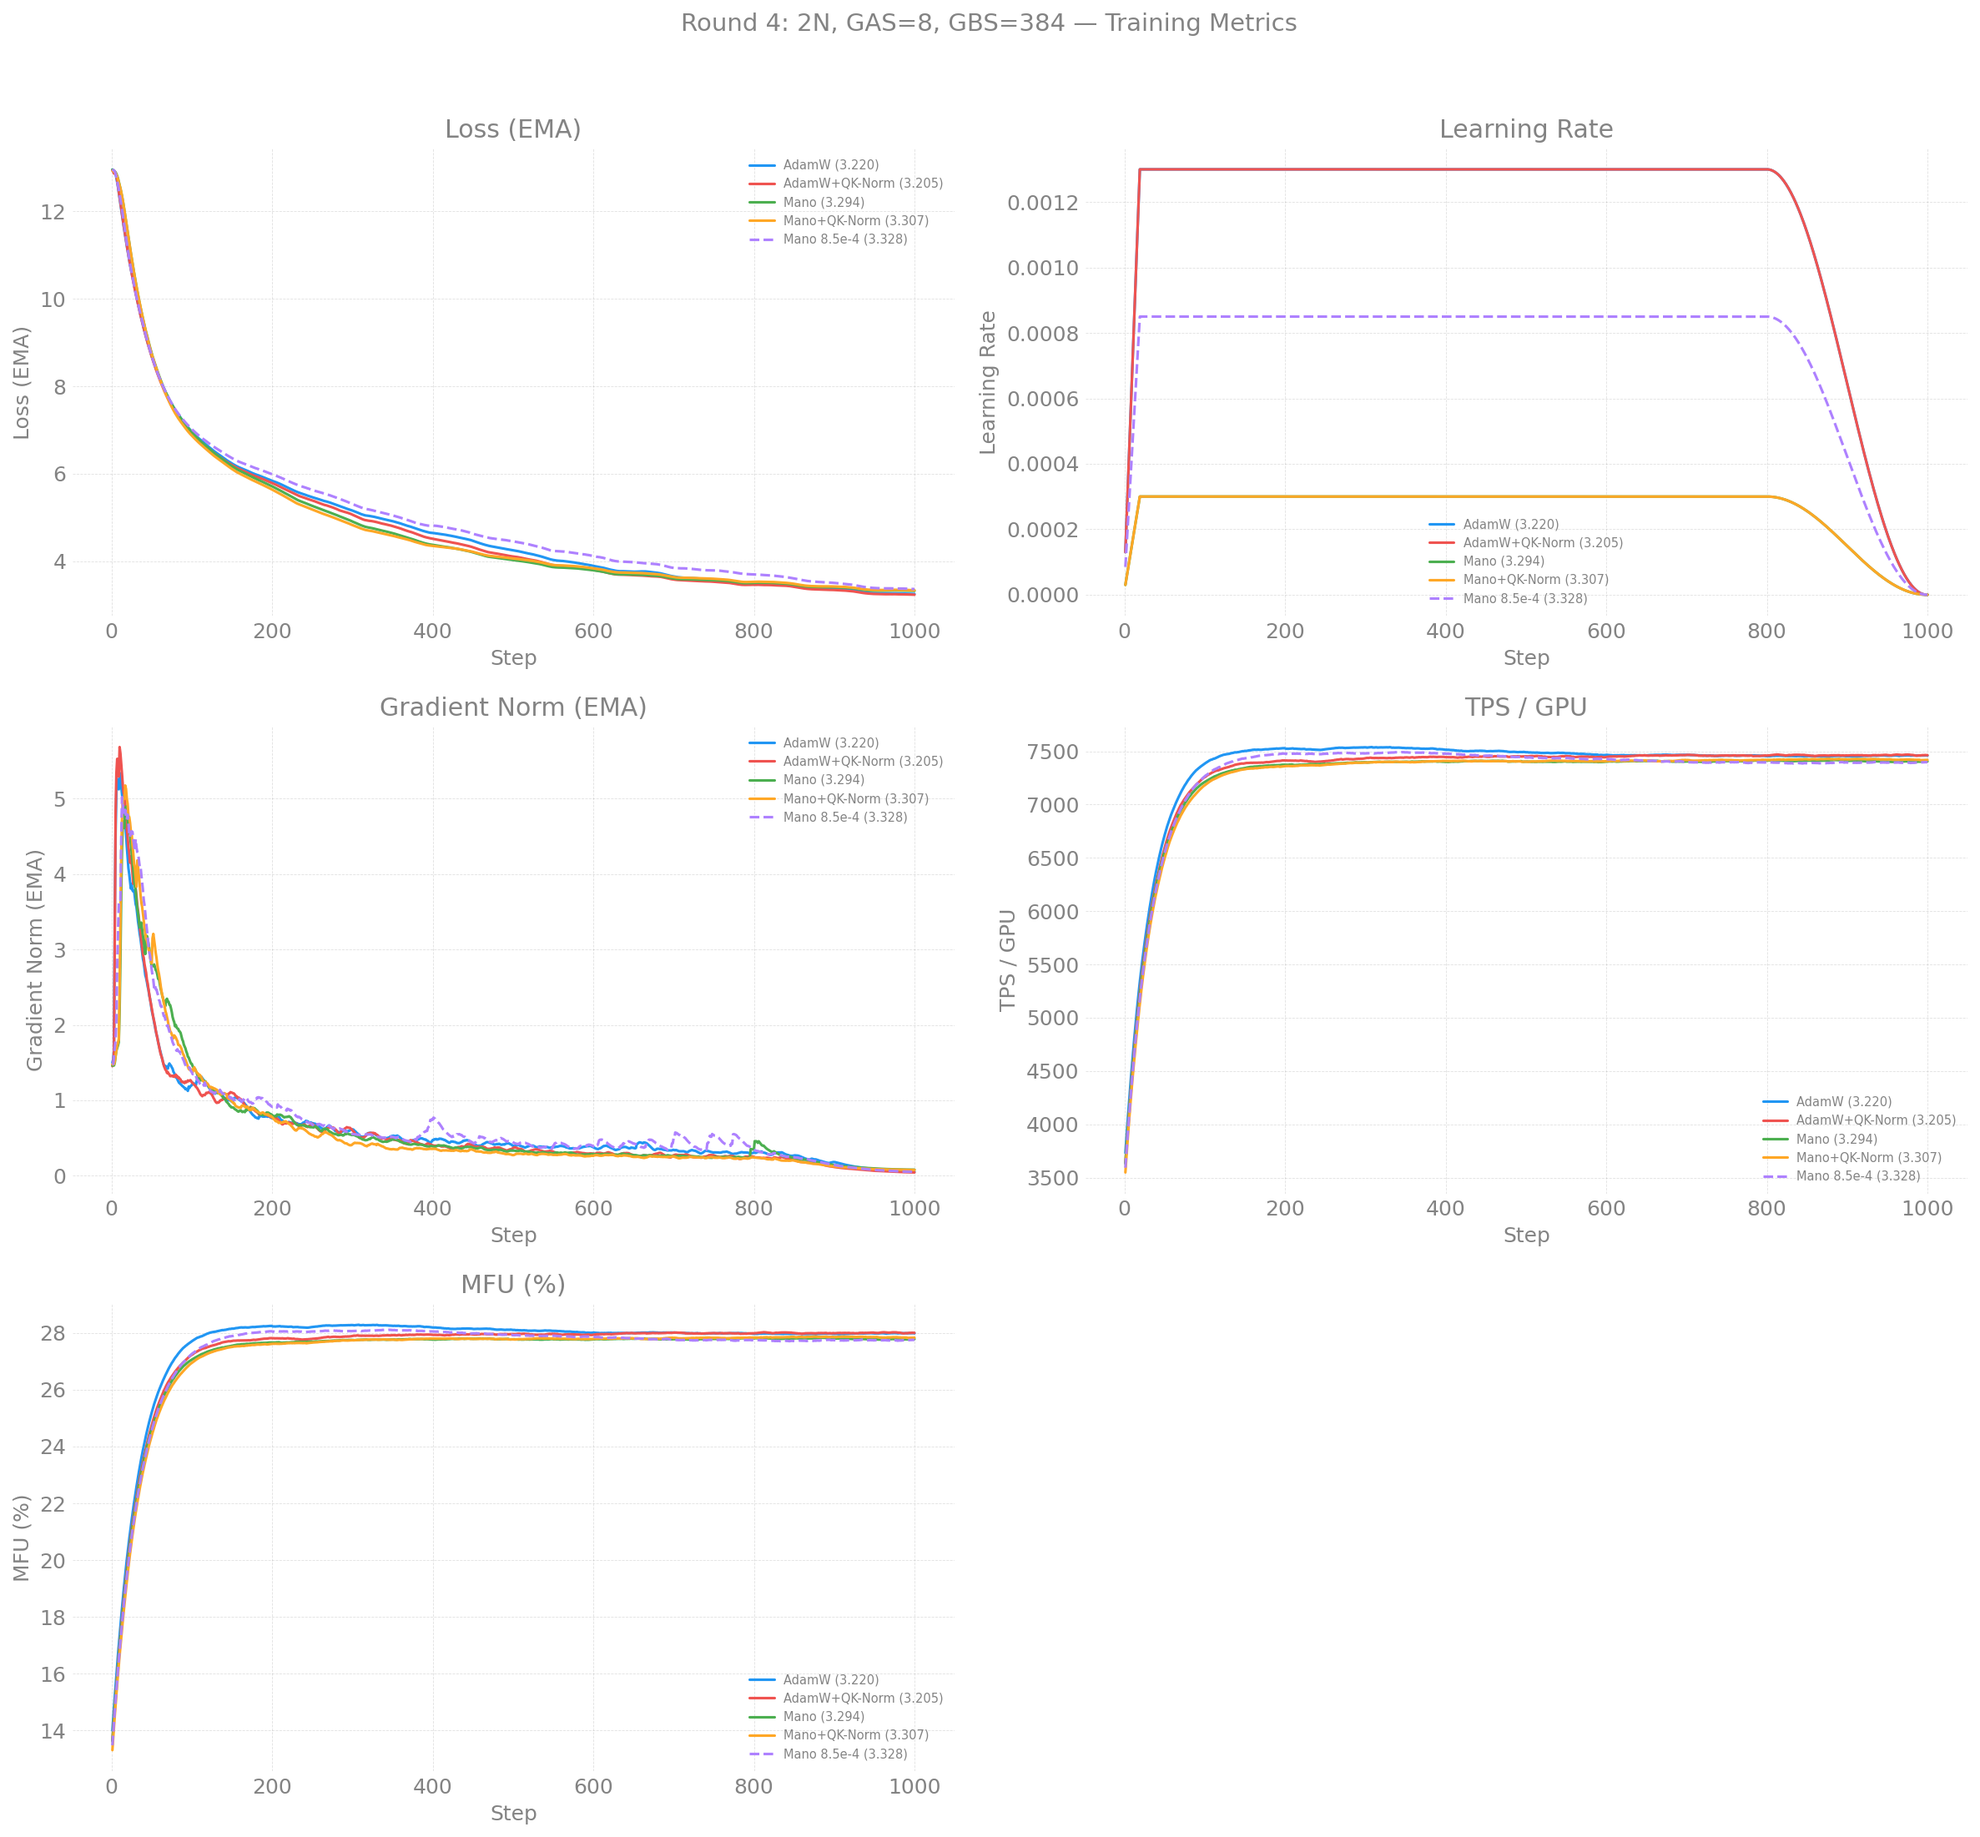
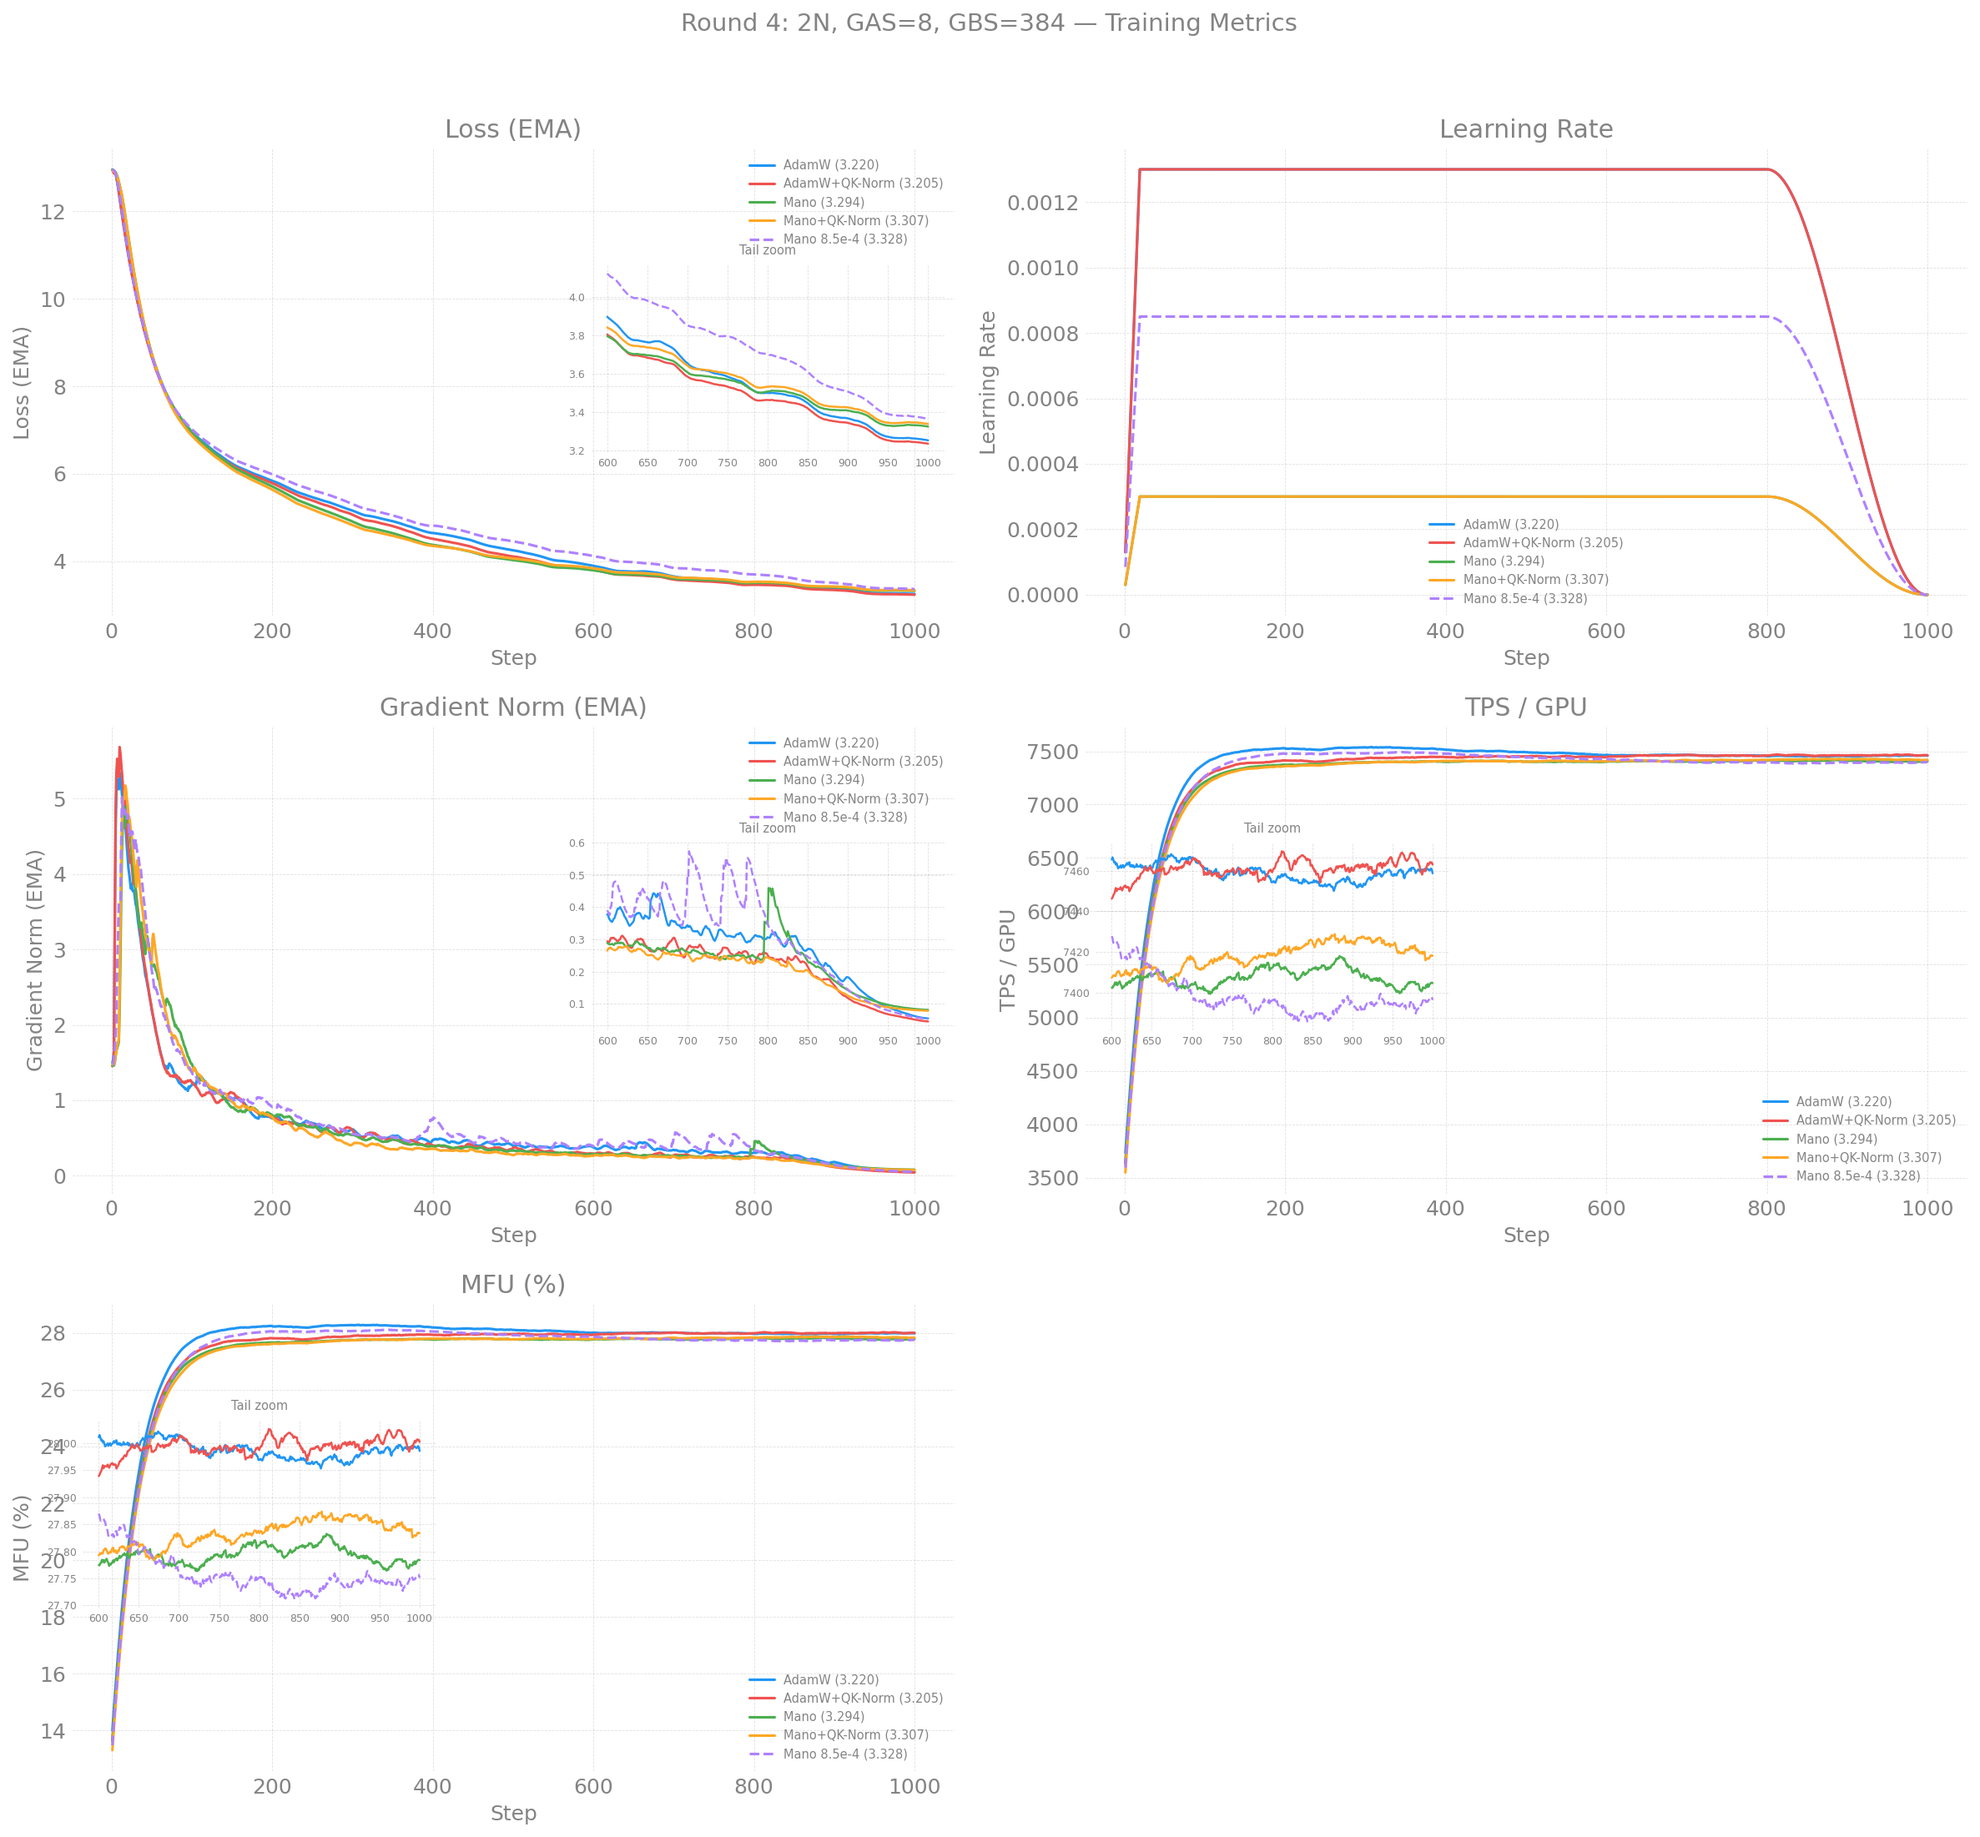
feat(ezpz): add tail-zoom insets to all metrics panels in plot_training.py

diff --git a/torchtitan/experiments/ezpz/eval/plot_training.py b/torchtitan/experiments/ezpz/eval/plot_training.py
@@ -255,7 +255,8 @@ def plot_metrics_panel(
     metrics: list[tuple[str, str]] | None = None,
     output_path: str | None = None,
 ) -> matplotlib.figure.Figure:
-    """Plot a 2x2 panel of training metrics."""
+    """Plot a multi-panel grid of training metrics with tail-zoom insets."""
+    from mpl_toolkits.axes_grid1.inset_locator import inset_axes
     if metrics is None:
         # Check if any run has LR data
         has_lr = any("lr" in r.metrics for r in runs)
@@ -283,6 +284,9 @@ def plot_metrics_panel(
     for idx in range(len(metrics), nrows * ncols):
         axes.flat[idx].set_visible(False)
 
+    # Metrics that benefit from a tail-zoom inset
+    inset_metrics = {"loss", "grad_norm", "tps", "mfu"}
+
     for ax, (metric, ylabel) in zip(axes.flat, metrics):
         for i, run in enumerate(runs):
             if metric not in run.metrics:
@@ -292,6 +296,29 @@ def plot_metrics_panel(
                     color=c, linestyle=run.linestyle, linewidth=1.5)
         ax.set_xlabel("Step"); ax.set_ylabel(ylabel)
         ax.set_title(ylabel); ax.legend(fontsize=7, loc="best")
+
+        # Add inset zoom for applicable metrics
+        if metric in inset_metrics and runs:
+            valid_runs = [r for r in runs if metric in r.metrics and r.steps]
+            if valid_runs:
+                max_step = max(r.steps[-1] for r in valid_runs)
+                start = int(max_step * 0.6)
+                axins = inset_axes(
+                    ax, width="40%", height="40%",
+                    loc="center right" if metric in ("loss", "grad_norm") else "center left",
+                    bbox_to_anchor=(0, 0.05, 1, 1), bbox_transform=ax.transAxes,
+                )
+                for i, run in enumerate(valid_runs):
+                    c = run.color or colors[i % len(colors)]
+                    mask = [j for j, s in enumerate(run.steps) if s >= start]
+                    if mask:
+                        axins.plot(
+                            [run.steps[j] for j in mask],
+                            [run.metrics[metric][j] for j in mask],
+                            color=c, linestyle=run.linestyle, linewidth=1.2,
+                        )
+                axins.set_title("Tail zoom", fontsize=7)
+                axins.tick_params(labelsize=6)
 
     fig.suptitle(title, fontsize=14, y=0.98)
     plt.tight_layout(rect=[0, 0, 1, 0.96])
